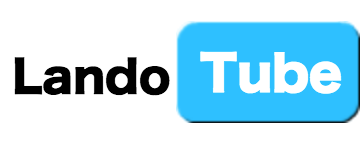
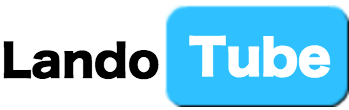
Updated the header to include and background color
Will soon update the color of the links to make them distinguishable
based on what they link to. They are currently all the same color
making them hard to distinguish.

Changed region(s): [[0.0, 0.0273, 1.0, 0.9818], [0.5444, 0.3, 0.9456, 0.7091]]

diff --git a/assets/css/style.css b/assets/css/style.css
@@ -17,9 +17,10 @@ html {
 
 /* Header Styles */
 #header {
-	border-bottom: 1px solid #ededed;
+	border-bottom: 10px solid #ededed;
 	padding: 5px 0;
-	height: 50px;
+	height: 40px;
+	background-color: #33ccff;
 }
 
 #header div.center {
@@ -32,7 +33,7 @@ html {
     text-align: center;
     vertical-align: middle;
     width: 100px;
-    height: 50px;
+    height: 40px;
 }
 
 .wraptocenter * {

diff --git a/templates/header.html b/templates/header.html
@@ -23,7 +23,7 @@
 					<li>
 						<div class="wraptocenter">
 							<span></span>
-							<a href="/"><img src="/assets/images/landotube.png" height="50"></a>
+							<a href="/"><img src="/assets/images/landotube.png" height="40"></a>
 						</div>
 					</li>
 				</ul>
